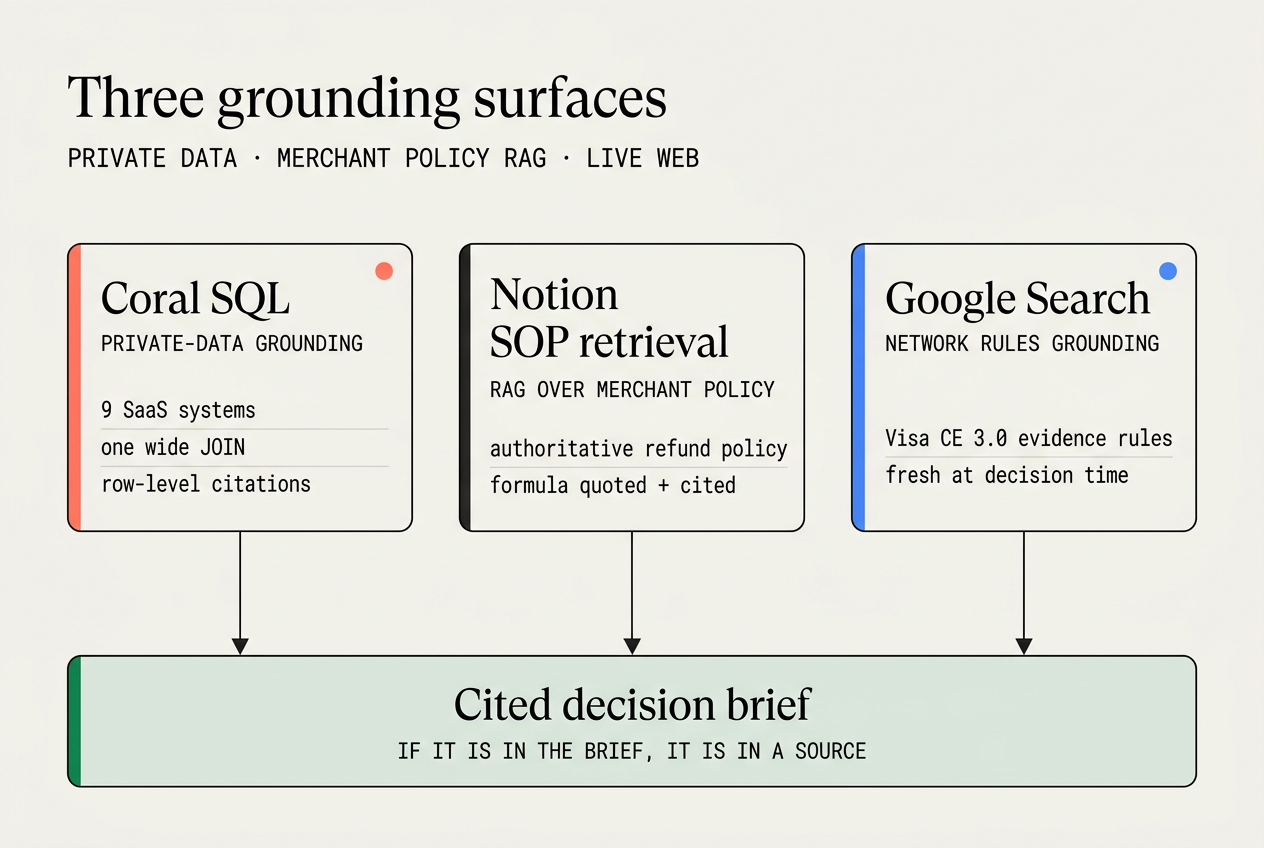
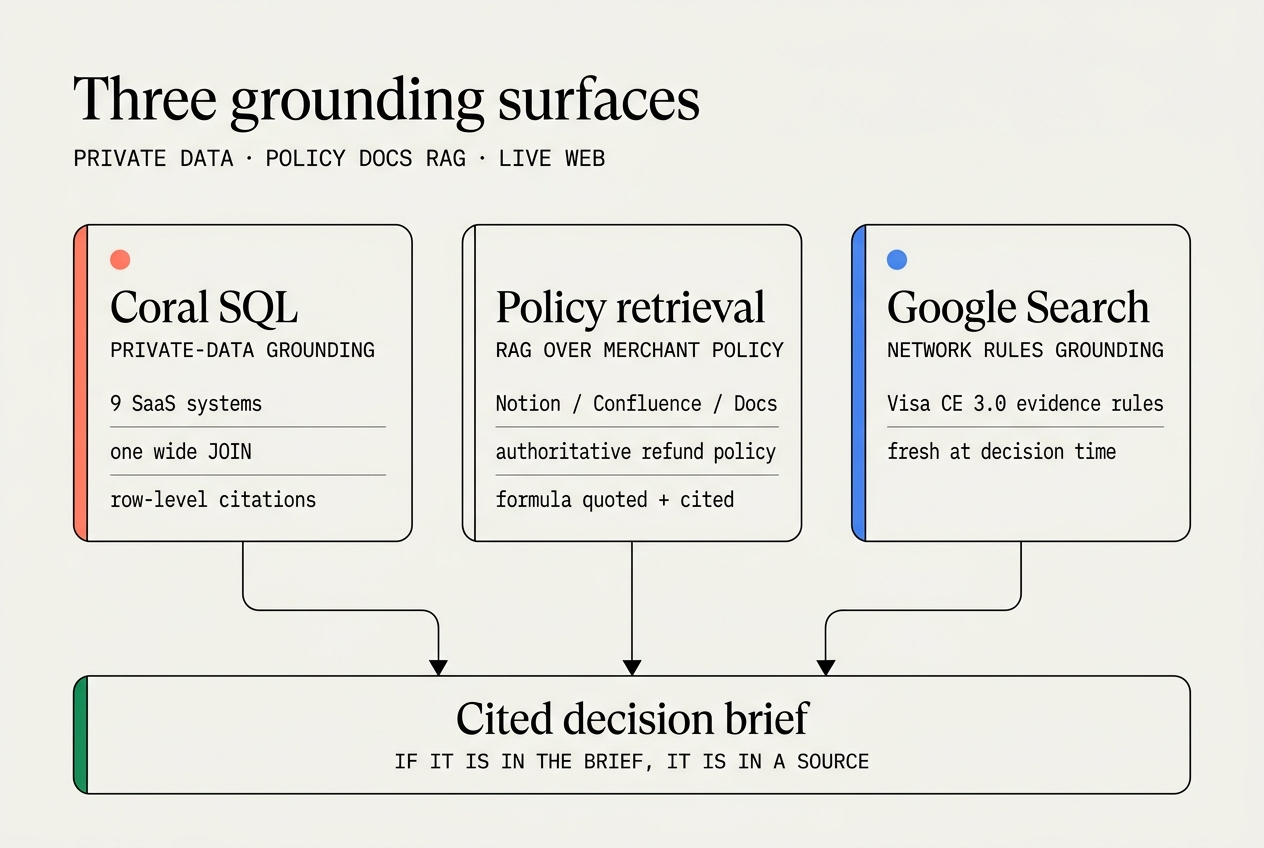
fix(track3): policy retrieval is source-agnostic; drop the generator script
The policy analyst was hard-pinned to the notion schema — wrong framing:
merchants keep policy in different places (Notion, Confluence, Google
Docs), exactly like CRM may be HubSpot or Salesforce and support
Intercom or Zendesk. The specialist now discovers the connected docs
schema from the catalog at run time (notion quirks kept as a conditional
cheat block); its card description and every doc generalized. README
gains the point explicitly: the provider is a slot, not a dependency.

team.png + grounding.png regenerated in the same design system with
source-agnostic labels (POLICY DOCS RAG / Notion · Confluence · Docs).
generate_diagrams.py removed from the repo per review — the diagrams
are the artifact, not the tooling.

Tests: agent 79, api 71 green.

diff --git a/agent/src/manthan_agent/team.py b/agent/src/manthan_agent/team.py
@@ -176,21 +176,27 @@ dropped (supports the claim) or stayed flat (undermines it).
 
 _POLICY_INSTRUCTION = """\
 You are the policy analyst on a billing-dispute investigation team —
-the team's retrieval (RAG) surface over the company knowledge base.
+the team's retrieval (RAG) surface over the merchant's knowledge base.
 
-SCOPE: the `notion` schema ONLY. Ignore everything else.
+SCOPE: the docs/knowledge schemas, wherever this merchant keeps policy.
+Check the catalog for whichever are connected — `notion`, `confluence`,
+`google_docs`, or any wiki-like schema — and search those ONLY. Ignore
+payments/CRM/observability — teammates cover them.
 
 Your job: find THE authoritative SOP page that governs the fact
 pattern in the request, and QUOTE THE FORMULA (or threshold /
 required corroborations) verbatim so the coordinator can apply it.
 
-How notion works here:
+If the docs source is notion, its quirks:
   - notion.search is a per-call table function: ONE phrase per call,
     `WHERE query = '<phrase>' LIMIT 10`. Boolean OR does NOT work.
     Run 2-3 separate searches with distinct short phrases drawn from
     the case ("pro-rata", "SLA credit", "refund policy", ...).
   - Then fetch the body: SELECT body FROM notion.pages
     WHERE page_id = '<uuid>'. notion.pages cannot be scanned.
+Other docs sources follow the same shape: a search/list entry point
+first, then a per-page body fetch — discover the exact tables with
+coral_describe_table before querying.
 
 Prefer the CURRENT, AUTHORITATIVE page (status='current', tags include
 'authoritative') over drafts and duplicates — if two policies
@@ -302,7 +308,8 @@ def build_specialists(
     )
     policy = _agent(
         "policy_analyst",
-        "Retrieves THE authoritative Notion SOP for the fact pattern and "
+        "Retrieves THE authoritative policy/SOP for the fact pattern from "
+        "wherever the merchant keeps docs (notion, confluence, ...) and "
         "quotes its formula/threshold verbatim (the team's RAG surface).",
         _POLICY_INSTRUCTION,
         _coral_subset(),

diff --git a/README.md b/README.md
@@ -56,7 +56,7 @@ On the seeded $8,400 dispute, live: five specialists dispatched in one parallel 
 | **Gemini-powered intelligence** | Every reasoning call is Gemini: `gemini-3.1-pro-preview` (coordinator), `gemini-3.5-flash` (specialists + advisor), `gemini-3.1-flash-lite` (triage + prettifier). No other LLM anywhere | [`agent/src/manthan_agent/config.py`](./agent/src/manthan_agent/config.py) |
 | **A2A interoperability** | Three agents publish Agent Cards and speak JSON-RPC A2A; triage→investigator dispatch runs over A2A; 12 skills let external agents investigate, ask, pre-check refunds, and contribute evidence | [`agent/src/manthan_agent/a2a/`](./agent/src/manthan_agent/a2a) |
 | **Multi-agent ADK orchestration** | A coordinator + five parallel specialists (shared Evidence set, AgentTools) inside the investigator; triage / investigator / advisor as separately-identified macro agents | [`agent/src/manthan_agent/team.py`](./agent/src/manthan_agent/team.py) |
-| **Grounding + RAG** | Private-data grounding via Coral SQL over 9 SaaS systems · RAG over merchant SOPs (Notion policy retrieval) · ADK built-in `google_search` grounding for card-network evidence rules | [Grounding & RAG](#grounding--rag) |
+| **Grounding + RAG** | Private-data grounding via Coral SQL over 9 SaaS systems · RAG over merchant policy docs (Notion / Confluence / Docs — whichever the catalog shows) · ADK built-in `google_search` grounding for card-network evidence rules | [Grounding & RAG](#grounding--rag) |
 | **Agent Identity** | One service account per agent; identity block (agent id, SA, model, signing fingerprint) published on every Agent Card and rendered in the product's Agent Roster | [`deploy/gcp/deploy.sh`](./deploy/gcp/deploy.sh) |
 | **Collaboration > single agent** | Parallel specialists with scoped prompts + per-source schemas; specialist failures degrade instead of aborting; an external-agent skill surface a single agent could not offer | [Multi-agent](#a-multi-agent-system-not-a-chatbot) |
 
@@ -137,7 +137,7 @@ And the forward story: as buyers become agents (AP2), disputes become agent-to-a
 ## Grounding & RAG
 
 <p align="center">
-  <img src="docs/track3/assets/grounding.png" alt="Three grounding surfaces — Coral SQL, Notion SOP RAG, Google Search" width="860" />
+  <img src="docs/track3/assets/grounding.png" alt="Three grounding surfaces — Coral SQL, policy-docs RAG, Google Search" width="860" />
 </p>
 
 Three grounding surfaces, each doing a different job:
@@ -166,7 +166,9 @@ WHERE d.id = 'dp_aperture_345478';
 
 Every query's result lands as an **Evidence row with full provenance** (source, table, record id); every finding must cite Evidence indices; every citation chip in the brief deep-links to the underlying record. If it's in the brief, it's in a source.
 
-**2 · RAG over merchant policy.** The policy analyst retrieves the merchant's own SOPs from Notion (search → page → formula), so decisions follow *documented* policy — "two degraded days in a thirty-day cycle" comes from the merchant's pro-rata credit page, quoted and cited, not from model priors.
+**2 · RAG over merchant policy.** The policy analyst retrieves the merchant's own SOPs from wherever they actually live — Notion, Confluence, Google Docs; it discovers the connected docs schema from the catalog at run time (search → page → formula). Decisions follow *documented* policy — "two degraded days in a thirty-day cycle" comes from the merchant's pro-rata credit page, quoted and cited, not from model priors.
+
+**The provider is a slot, not a dependency.** CRM may be HubSpot *or* Salesforce, support Intercom *or* Zendesk, policy docs Notion *or* Confluence — Coral exposes whichever is connected as the same SQL schema, and the specialists discover what this merchant actually runs from the catalog instead of assuming a stack.
 
 **3 · Google Search grounding.** The network-rules analyst grounds card-network evidence requirements (e.g. Visa Compelling Evidence 3.0 for the dispute's reason code) via ADK's built-in `google_search` — rules that change too often to hardcode, retrieved fresh when a *fight* brief needs them.
 

diff --git a/docs/track3/SUBMISSION.md b/docs/track3/SUBMISSION.md
@@ -21,7 +21,7 @@ resolves the org, and dispatches the **investigator**
 local dev). The investigator creates the case and runs the ADK
 investigation in-process — a coordinator fanning out FIVE parallel
 specialists over one shared Evidence set (payments, customer context,
-reliability, policy = Notion SOP retrieval/RAG, network rules = its own
+reliability, policy = merchant policy-docs RAG, network rules = its own
 agent with built-in `google_search` grounding) — and writes its own
 events and projections through `services/case_store.py`. The **advisor**
 (`gemini-3.5-flash`) is the conversational A2A face (`ask`,
@@ -39,7 +39,7 @@ $8,400 `product_not_received` dispute `du_1Tch1OCNe0SBMhzIAppAdJjT`):
 
 - All **five specialists ran in parallel** under the coordinator and
   contributed to a single shared Evidence set — the brief's citations
-  span payments, CRM/support, reliability, the Notion SOP, and
+  span payments, CRM/support, reliability, the merchant's policy docs, and
   Google-Search-grounded network rules.
 - The **pacer's C1 refund-math gate rejected a math-less `conclude` on
   camera**: the coordinator first tried to conclude without showing the
@@ -59,7 +59,7 @@ SQL data plane (MCP) to investigate billing disputes end-to-end.
 | Piece | File |
 |---|---|
 | ADK Agent + Runner wrapped in the legacy-compatible `run_case()` event stream | `agent/src/manthan_agent/loop.py` |
-| Coordinator + FIVE parallel in-process specialists (payments_analyst, customer_context, reliability_analyst, policy_analyst = Notion SOP RAG, network_rules_analyst = `google_search` grounding), `ResilientAgentTool` 180s cap | `agent/src/manthan_agent/team.py` |
+| Coordinator + FIVE parallel in-process specialists (payments_analyst, customer_context, reliability_analyst, policy_analyst = policy-docs RAG, network_rules_analyst = `google_search` grounding), `ResilientAgentTool` 180s cap | `agent/src/manthan_agent/team.py` |
 | ADK agent definitions / model wiring for the team | `agent/src/manthan_agent/agents.py` |
 | ADK FunctionTools over Coral MCP (evidence + integer citations in session state) | `agent/src/manthan_agent/adk_tools.py` |
 | Pacing/guard rules as ADK callbacks (`before_model` nudges R1–R6, `before_tool` refund-math gate C1) | `agent/src/manthan_agent/adk_pacer.py` (pure rules: `pacer.py`) |

diff --git a/agent/README.md b/agent/README.md
@@ -48,7 +48,7 @@ Stripe webhook (5 event types)
   investigator agent  (gemini-3.1-pro-preview coordinator, team.py)
       │  runs run_case() in-process; 5 parallel flash specialists:
       │  payments_analyst / customer_context / reliability_analyst /
-      │  policy_analyst (Notion SOP RAG) / network_rules_analyst
+      │  policy_analyst (policy-docs RAG) / network_rules_analyst
       │  (google_search grounding); writes events + projections
       │  itself via manthan-api services/case_store.py
       ▼
@@ -157,7 +157,7 @@ Specialist fan-out (coordinator only — each is an AgentTool):
 - `payments_analyst` — stripe.* (charges, disputes, invoices, refunds).
 - `customer_context` — CRM + support (salesforce/hubspot, intercom).
 - `reliability_analyst` — datadog / sentry / pagerduty / posthog.
-- `policy_analyst` — Notion SOP retrieval; the RAG surface.
+- `policy_analyst` — merchant policy retrieval, wherever the docs live (Notion, Confluence, Google Docs — whichever schemas the catalog shows); the RAG surface.
 - `network_rules_analyst` — ADK built-in `google_search` grounding for
   card-network rules (its own agent: built-in tools can't be mixed
   with function tools).
